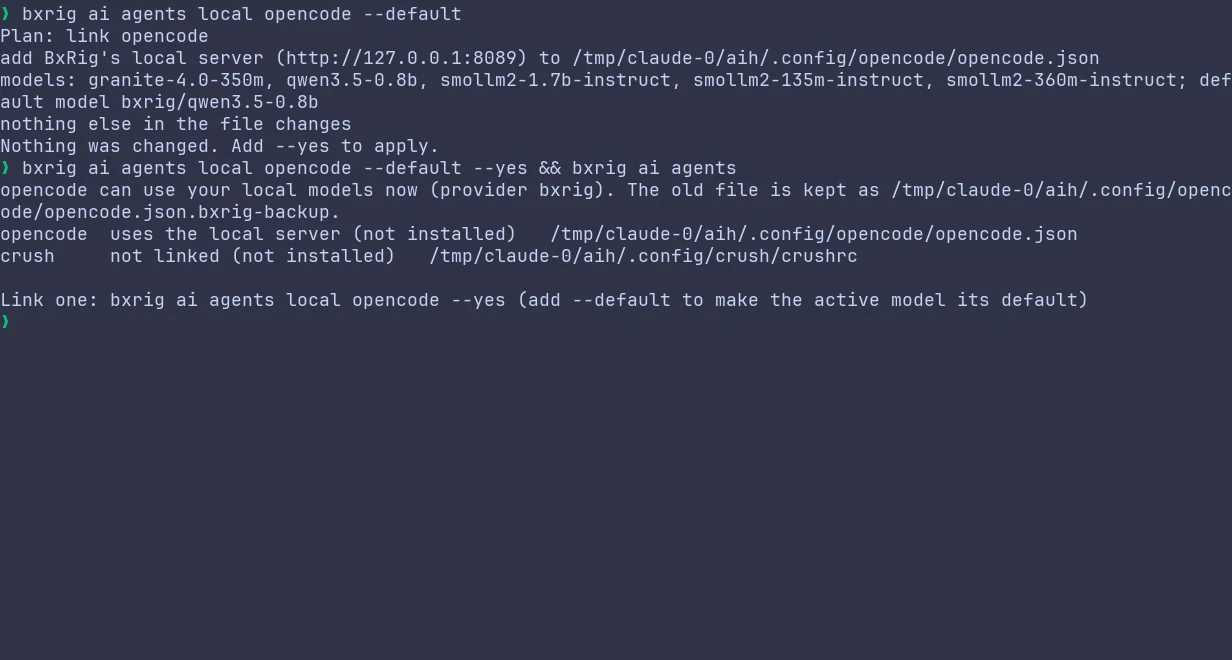
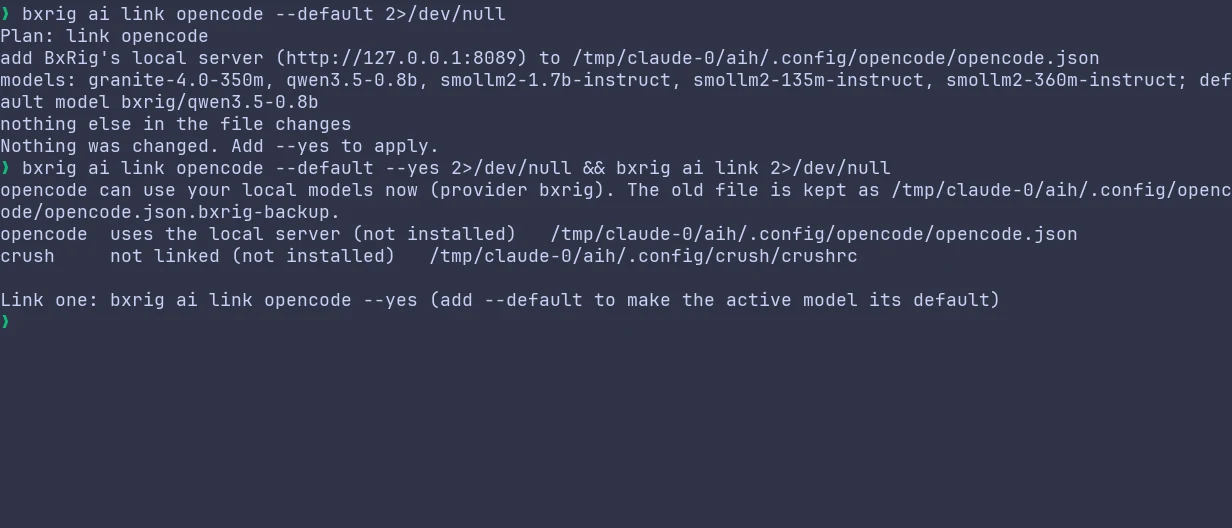
AI: rename ai agents (pointing OpenCode and Crush at the local server) to ai link
bxrig ai link [opencode|crush [--off] [--default] [--yes]]; ai agents is left for the agents BxRig will manage.

Claude-Session: https://claude.ai/code/session_019aF6omBNsZe4cntN6oQ9M2

Changed region(s): [[0.0, 0.0, 1.0, 0.5152], [0.0, 0.5455, 0.8019, 0.6061]]

diff --git a/docs/architecture/COMMAND-CONTRACT.md b/docs/architecture/COMMAND-CONTRACT.md
@@ -493,8 +493,8 @@ Secret types and providers (decided with the owner 2026-11-11):
 - `ai models pull hf:OWNER/REPO[/PATH.gguf]`: resolved as above (no file without a 64-character SHA-256 is downloaded). Id: the catalog's id when the catalog has that repository, else the repository name in lower case without `-GGUF` (owner first when that clashes with a catalog id). The entry is kept in `ai.json` as `models.ID.meta` (`source: "hf"`, `verified: false`).
 - Queue: every pull writes `~/.local/state/bxrig/ai-downloads/ID.json` (`queued`, `downloading`, `checking`, `done`, `failed`, `cancelled`); `--background` runs the same pull detached (`setsid`, output in `pull.log` there). `ai downloads` reads the records with the live share from the `.part` size; `cancel ID` marks it, stops its curl (`pkill -f` on the `.part` path) and deletes the part; `clear` forgets finished records.
 - `ai bench [ID]` (`AiBench.bx`, `catalog/ai-bench.json`): 20 cases (12 basic, 8 harder) with 10 tools, the system prompt, temperature 0, thinking off, `max_tokens` 400. Pass rules: `one` (the first call has the name and every argument matches its case-insensitive pattern), `both` (each expected call appears), `none` (no call). Kept as `models.ID.bench { score, of, basic, hard, median_s, at, engine }`. Checked on llama.cpp b12627: Qwen3.5 0.8B scores 17/20, as in the catalog.
-- `ai agents [local opencode|crush [--off] [--default] [--yes] [--dry-run]]` (`AiAgentLink.bx`): OpenCode `~/.config/opencode/opencode.json` gets `providers.bxrig = { name, package: "@opencode/ai/providers/openai-compatible", settings.baseURL: BASE/v1, models: { ID: {} } }` (chat models) and, with `--default`, `model: "bxrig/ACTIVE"`; a file that is not plain JSON is refused. Crush `~/.config/crush/crushrc` gets a marked block `provider add bxrig --name "BxRig local AI" --type llamacpp --base-url BASE`. `--off` removes only those (and a `bxrig/` default). The old file is kept as `.bxrig-backup`. Refused (exit 4) while the server listens on 0.0.0.0: neither agent's docs say how a custom provider sends a key. Formats from opencode.ai/docs/providers and the Crush README (read 2026-11-23); not run against the agents here.
-- Control Center: `ai-discover` (live search, refresh every 2 s; Enter `ai models pull SPEC --background`, `c` cancel, `x` clear, `h` Hugging Face) and `ai-agents` (`ai list`, `ai agents`, `ai session list`; Enter session, `d` default, `l` local server). The AI page: `b` bench. Bar: the Local tab lists active downloads.
+- `ai link [opencode|crush [--off] [--default] [--yes] [--dry-run]]` (`AiAgentLink.bx`): OpenCode `~/.config/opencode/opencode.json` gets `providers.bxrig = { name, package: "@opencode/ai/providers/openai-compatible", settings.baseURL: BASE/v1, models: { ID: {} } }` (chat models) and, with `--default`, `model: "bxrig/ACTIVE"`; a file that is not plain JSON is refused. Crush `~/.config/crush/crushrc` gets a marked block `provider add bxrig --name "BxRig local AI" --type llamacpp --base-url BASE`. `--off` removes only those (and a `bxrig/` default). The old file is kept as `.bxrig-backup`. Refused (exit 4) while the server listens on 0.0.0.0: neither agent's docs say how a custom provider sends a key. Formats from opencode.ai/docs/providers and the Crush README (read 2026-11-23); not run against the agents here.
+- Control Center: `ai-discover` (live search, refresh every 2 s; Enter `ai models pull SPEC --background`, `c` cancel, `x` clear, `h` Hugging Face) and `ai-agents` (`ai list`, `ai link`, `ai session list`; Enter session, `d` default, `l` local server). The AI page: `b` bench. Bar: the Local tab lists active downloads.
 - Tests: `tests/ai_local_test.bxs` (pure), `tests/ai-local-test.sh` (fake curl, llama and systemctl; a small catalog; a fake Hugging Face API). Checked for real against llama.cpp b12627 (the official container image's `llama`): downloads from Hugging Face, the router with the written preset, test, use, tune, ask and the Anthropic endpoint.
 
 Exit codes: 0 done, 2 usage or plan without `--yes`, 4 precondition (unknown or missing agent, no default, no terminal), 6 failed. Tests: `tests/ai-test.sh`, `tests/init_plan_test.bxs`, `tests/init-test.sh`.

diff --git a/skills/bxrig-ai/SKILL.md b/skills/bxrig-ai/SKILL.md
@@ -7,5 +7,5 @@ description: "Use this skill when working with AI tools through BxRig: coding ag
 
 - Agents: `bxrig ai list`, `ai default ID`, `ai launch [ID]` (with its keys loaded), `ai shell` (pull-down terminal, `Super+``), `ai session start|list|attach|stop`.
 - Keys: `bxrig secrets set KEY` (typed hidden, stored in the keyring), `secrets list|unset|run KEYS -- cmd`. `secrets` marks each key as an AI key or other. Never put keys in files, shell history or answers.json. Global export is opt-in: `secrets global on KEY`.
-- Local models (llama.cpp): `bxrig ai setup --yes`, `bxrig ai models [list|recommend|pull ID --yes|use ID|test|tune --yes|remove ID --yes]`, `bxrig ai serve [start|stop]`, `bxrig ai ask TEXT`. More models: `bxrig ai discover [QUERY] [--fits]`, `bxrig ai models pull hf:OWNER/REPO --yes` (any GGUF, checked against Hugging Face's SHA-256), `--background` with `bxrig ai downloads`. Score a model here: `bxrig ai bench [ID]`. Point OpenCode or Crush at the local server: `bxrig ai agents local opencode|crush --yes`. APIs: OpenAI `http://127.0.0.1:8089/v1`, Anthropic `/v1/messages`, embeddings `/v1/embeddings`; model ids are the catalog ids (`bxrig ai models`).
+- Local models (llama.cpp): `bxrig ai setup --yes`, `bxrig ai models [list|recommend|pull ID --yes|use ID|test|tune --yes|remove ID --yes]`, `bxrig ai serve [start|stop]`, `bxrig ai ask TEXT`. More models: `bxrig ai discover [QUERY] [--fits]`, `bxrig ai models pull hf:OWNER/REPO --yes` (any GGUF, checked against Hugging Face's SHA-256), `--background` with `bxrig ai downloads`. Score a model here: `bxrig ai bench [ID]`. Point OpenCode or Crush at the local server: `bxrig ai link opencode|crush --yes`. APIs: OpenAI `http://127.0.0.1:8089/v1`, Anthropic `/v1/messages`, embeddings `/v1/embeddings`; model ids are the catalog ids (`bxrig ai models`).
 - Skills for agents: `bxrig skills list|search TEXT|show REF|install REF...|installed|update|remove NAME|status`. They are stored once in `~/.agents/skills` and linked into each agent's skills folder. The hub is https://skills.boxlang.io (an API, audited skills; a skill that failed its audit cannot be installed).

diff --git a/docs/guides/local-ai.md b/docs/guides/local-ai.md
@@ -113,11 +113,11 @@ bxrig ai bench qwen3.5-0.8b
 ## Coding agents on local models
 
 ```bash
-bxrig ai agents                            # which agents use the local server
-bxrig ai agents local opencode --yes       # add BxRig's server to OpenCode
-bxrig ai agents local opencode --default --yes   # and make the active model its default
-bxrig ai agents local crush --yes
-bxrig ai agents local opencode --off --yes
+bxrig ai link                              # which agents use the local server
+bxrig ai link opencode --yes               # add BxRig's server to OpenCode
+bxrig ai link opencode --default --yes     # and make the active model its default
+bxrig ai link crush --yes
+bxrig ai link opencode --off --yes
 ```
 
 Only BxRig's own part of each agent's config is written (a provider called `bxrig`); everything else stays, and the old file is kept as `.bxrig-backup`. OpenCode gets a provider in `~/.config/opencode/opencode.json` with your chat models; Crush gets a `llamacpp` provider block in `~/.config/crush/crushrc` and finds the models itself. A config with comments (JSONC) is not rewritten. While the server listens on your network it needs an API key, so agents are linked only while it listens on 127.0.0.1.

diff --git a/docs/reference/commands.md b/docs/reference/commands.md
@@ -1619,7 +1619,7 @@ bxrig ai serve [status|start|stop|restart] [--listen=127.0.0.1|0.0.0.0] [--port=
 bxrig ai discover [QUERY] [--fits] [--tools] [--vision] [--embeddings] [--limit=N] [--json]
 bxrig ai downloads [clear | cancel ID] [--json]
 bxrig ai bench [ID] [--json]
-bxrig ai agents [local opencode|crush [--off] [--default] [--yes] [--dry-run]] [--json]
+bxrig ai link [opencode|crush [--off] [--default] [--yes] [--dry-run]] [--json]
 bxrig ai ask TEXT [--model=ID] [--json]
 bxrig ai list
 bxrig ai default [ID] [--yes]
